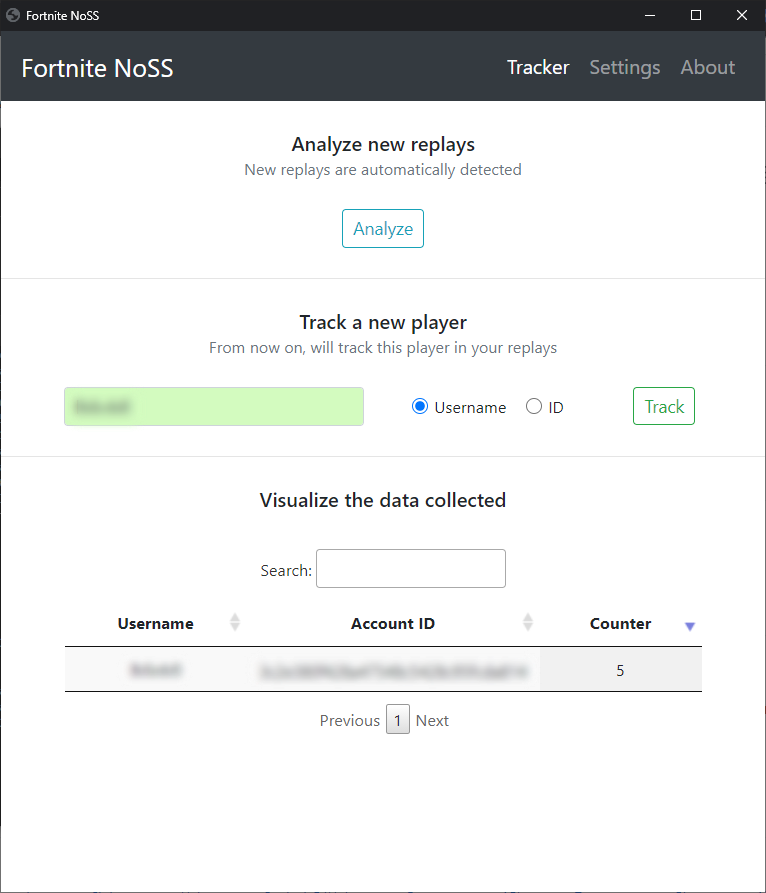
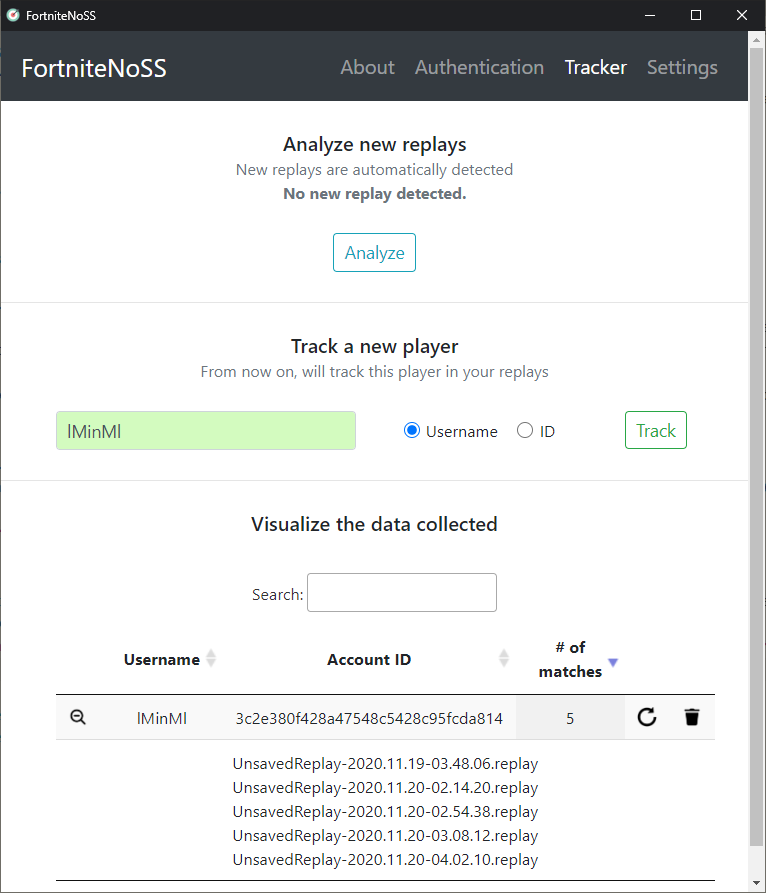
Update README.md + screenshot

diff --git a/README.md b/README.md
@@ -1,11 +1,28 @@
 # Fortnite No Stream Snipers (FortniteNoSS)
-Small python app that can track the players which appear in your Fortnite matches.
-Using [FortniteReplayDecompressor](https://github.com/Shiqan/FortniteReplayDecompressor), the app extrack the data needed from your Fortnite replays and presents to you the results.
+Fortnite No Stream Snipers (FortniteNoSS) is a tool to track potential stream snipers players.
+The goal is to help streamers to determine if a player is stream sniping and if so, get Epic to ban this player more easily.
+<br />
 
+## Download
+I've not released the tool yet, but that should come soon!
 <br />
-This app can be useful to streamers. It allows them to track suspicious players that often appear in their match.
-<br />
-<br />
+
+## General Questions
+
+### How can this tool be useful ?
+At the moment, the only feature that I've implemented is tracking players that the user manually entered. You will be able to see the number of times the tracked players appear in your matches, and also see the corresponding replay files. Stream sniping being ban-able by Epic, hopefully this tool will help you to find stream snipers ruining your stream and get them banned.
+I intend to implement other features in order to find automatically the potential stream snipers players using all the data a replay file contains.
+
+### An Authentication is needed, why ?
+Replays contain only the Account ID of players in the match (Usernames of players being encrypted). In order to be able to convert between a Account ID and an Username, we need to send requests to the Epic Servers.\
+**If you prefer not to use your main Epic account, you can create and use a new one.**
+
+### How do you get the matches data ?
+Using the [FortniteReplayDecompressor](https://github.com/Shiqan/FortniteReplayDecompressor) parser, FortniteNoSS analyzes your replays and collect data about your matches.\
+**You need to have "Record Replays" set to ON in your Fortnite settings and specify the replay directory in the FortniteNoSS Settings!**
+
+
+## Screenshot
 
 <p align="center">
 <img src="screenshots/screenshot.png" width="400px">
